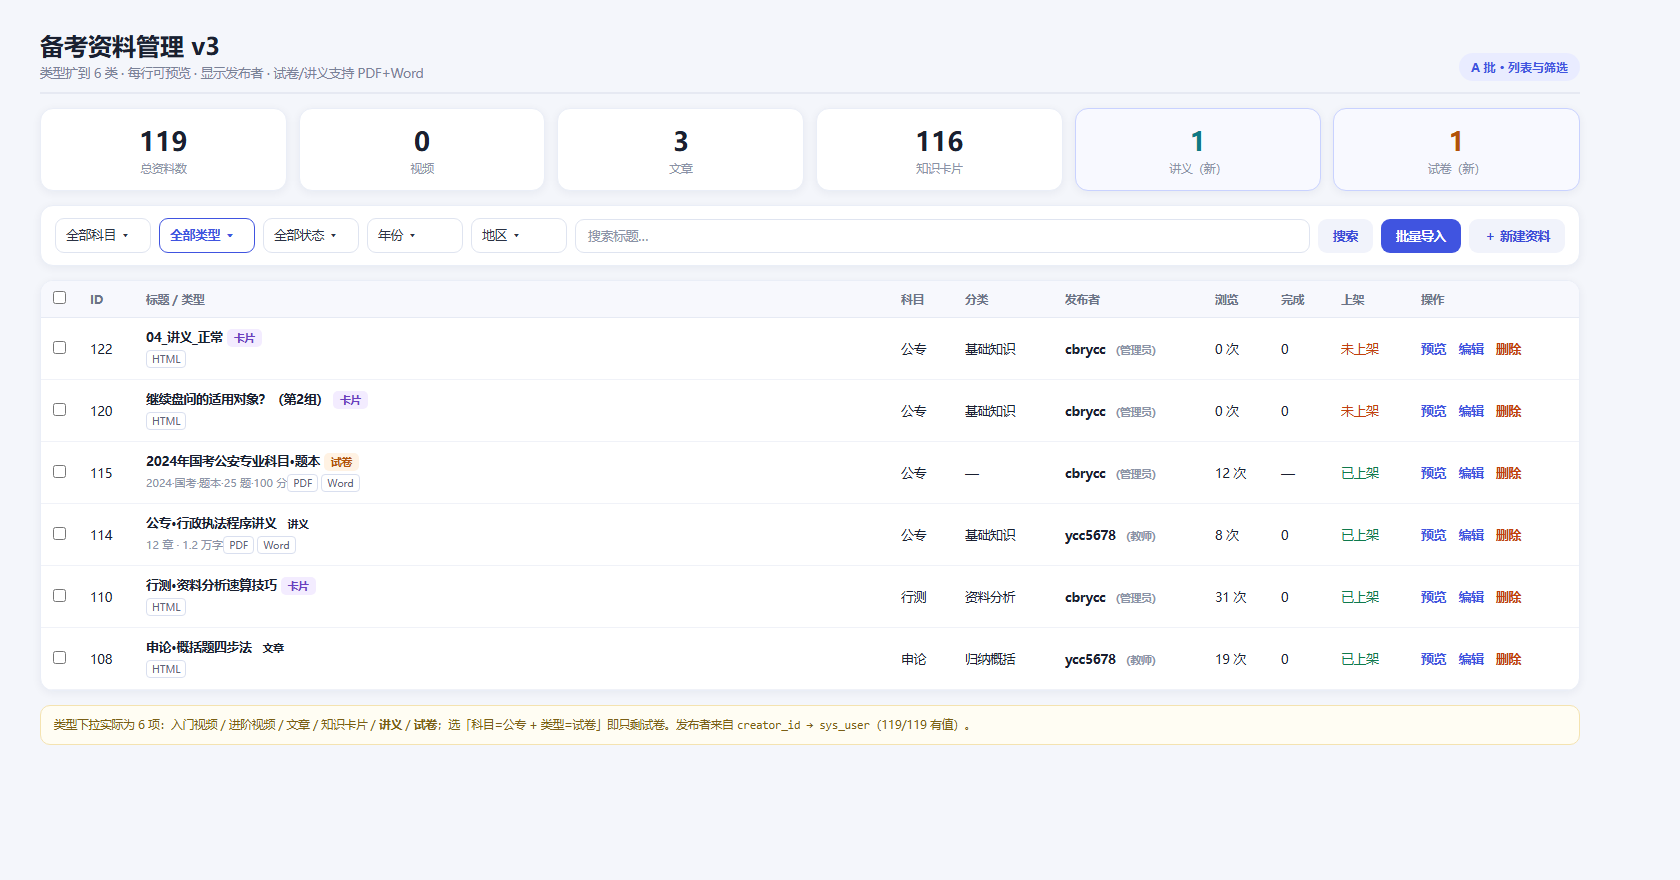
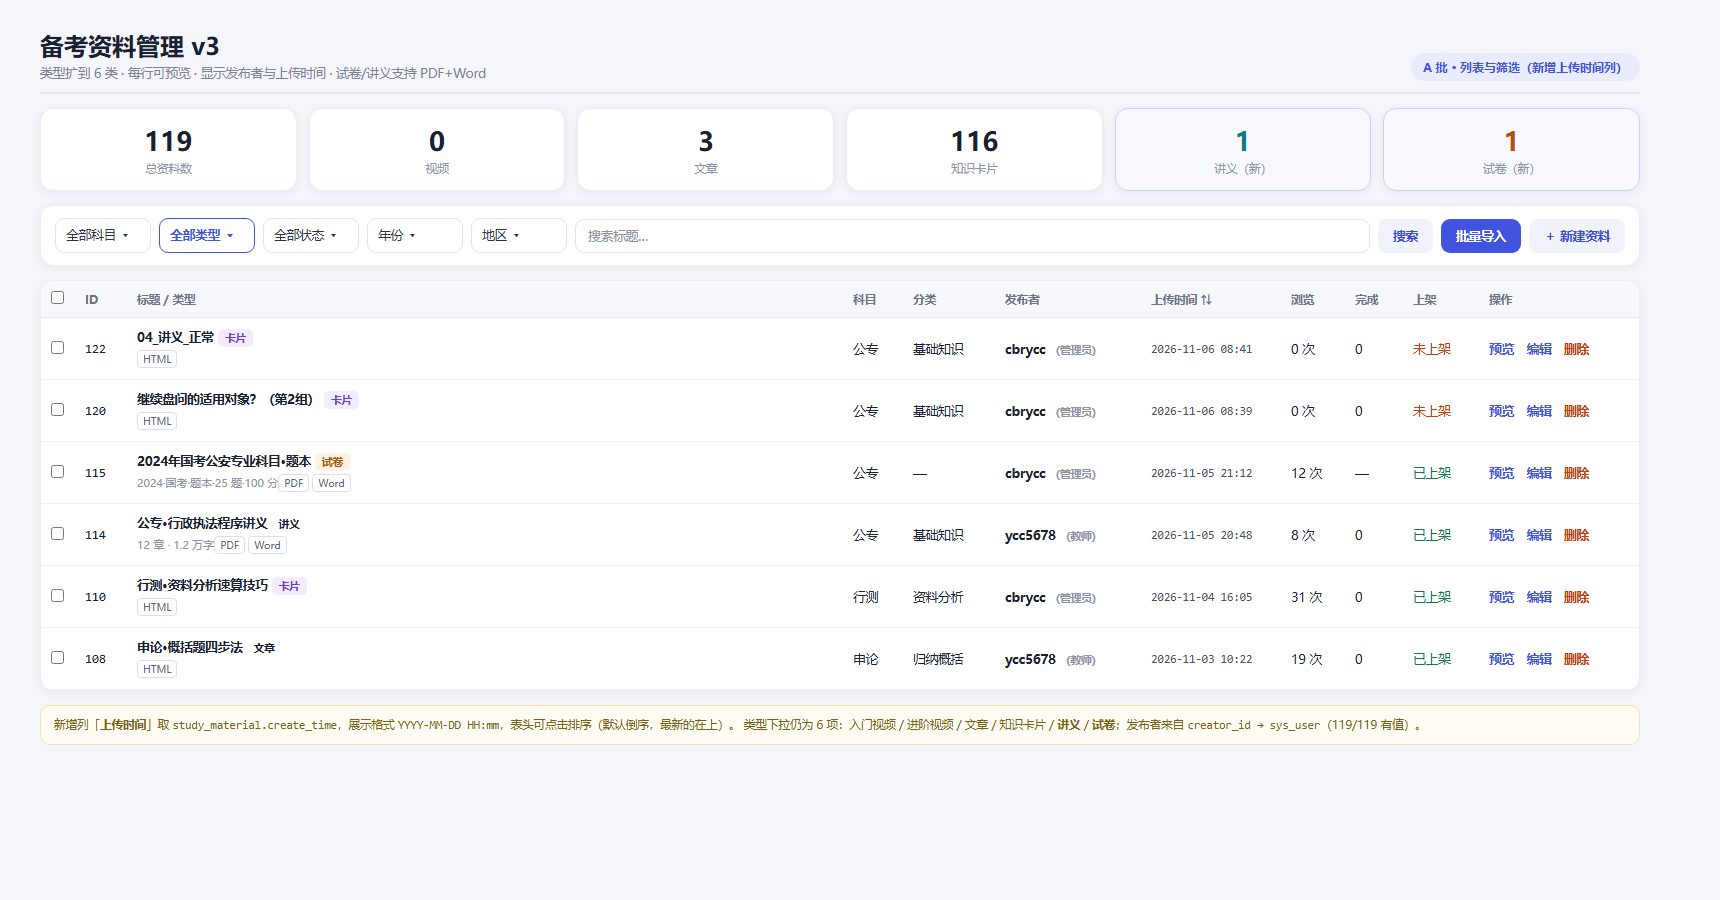
docs(plan): 资料管理列表新增「上传时间」列（create_time，可排序），重出效果图

diff --git a/docs/plans/assets/资料管理v3/_src/01_列表_预览与发布者.html b/docs/plans/assets/资料管理v3/_src/01_列表_预览与发布者.html
@@ -12,25 +12,23 @@ body{font-family:"Microsoft YaHei","Segoe UI",system-ui,sans-serif;background:#f
 .st.on{border-color:#c9d2ff;background:#f8f9ff}
 .bar{display:flex;gap:8px;align-items:center;padding:12px 14px}
 .sel{border:1px solid #dfe4f0;border-radius:9px;padding:8px 10px;font-size:12.5px;background:#fff;min-width:96px;color:#2b3244}
-.sel strong{font-weight:600}
 .inp{flex:1;border:1px solid #dfe4f0;border-radius:9px;padding:8px 12px;font-size:12.5px;color:#8b93a7}
 .btn{background:#4054e0;color:#fff;border-radius:9px;padding:9px 15px;font-size:12.5px;font-weight:700}
 .btn.ghost{background:#f1f3fb;color:#3a4bd8}
 .tbl{width:100%;border-collapse:collapse;font-size:12.5px}
-.tbl th{text-align:left;background:#f7f8fd;color:#6b7387;font-size:11.5px;padding:10px 12px;border-bottom:1px solid #e6eaf4;font-weight:600}
-.tbl td{padding:11px 12px;border-bottom:1px solid #f0f2f8;vertical-align:middle}
+.tbl th{text-align:left;background:#f7f8fd;color:#6b7387;font-size:11.5px;padding:10px 10px;border-bottom:1px solid #e6eaf4;font-weight:600;white-space:nowrap}
+.tbl td{padding:11px 10px;border-bottom:1px solid #f0f2f8;vertical-align:middle}
 .tag{display:inline-block;font-size:10.5px;font-weight:700;padding:2px 7px;border-radius:5px;margin-left:4px}
 .t-card{background:#f3ecff;color:#6b3fbf}.t-art{background:#e8efff;color:#2f49c4}
 .t-lec{background:#e6f7f9;color:#0f7a86}.t-paper{background:#fff2e3;color:#b35309}
-.t-vid{background:#f1f2f6;color:#6b7387}
 .pub{font-weight:600}.role{font-size:10.5px;color:#8b93a7;margin-left:4px}
-.act{color:#4054e0;font-weight:600;cursor:default}
-.act.g{color:#c2410c}
+.act{color:#4054e0;font-weight:600}.act.g{color:#c2410c}
 .fmt{display:inline-block;font-size:10px;border:1px solid #d9dfef;border-radius:4px;padding:1px 5px;color:#5b6478;margin-right:3px}
+.time{font-family:Consolas,monospace;font-size:11.5px;color:#4a5266;white-space:nowrap}
 .note{font-size:11.5px;color:#7a5f16;background:#fffdf3;border:1px solid #f4e3b0;border-radius:10px;padding:10px 13px;line-height:1.6}
 </style></head><body>
-<div class="canvas" style="width:1620px;min-height:900px">
-<div class="hd"><div><h1>备考资料管理 v3</h1><div class="sub">类型扩到 6 类 · 每行可预览 · 显示发布者 · 试卷/讲义支持 PDF+Word</div></div><div class="badge">A 批 · 列表与筛选</div></div>
+<div class="canvas" style="width:1680px;min-height:880px">
+<div class="hd"><div><h1>备考资料管理 v3</h1><div class="sub">类型扩到 6 类 · 每行可预览 · 显示发布者与上传时间 · 试卷/讲义支持 PDF+Word</div></div><div class="badge">A 批 · 列表与筛选（新增上传时间列）</div></div>
 <div class="stats">
   <div class="st card"><div class="v">119</div><div class="l">总资料数</div></div>
   <div class="st card"><div class="v">0</div><div class="l">视频</div></div>
@@ -48,31 +46,36 @@ body{font-family:"Microsoft YaHei","Segoe UI",system-ui,sans-serif;background:#f
   <div class="btn ghost">搜索</div><div class="btn">批量导入</div><div class="btn ghost">＋ 新建资料</div>
 </div>
 <div class="card" style="padding:0;overflow:hidden">
-<table class="tbl"><thead><tr><th style="width:36px"><input type="checkbox"></th><th style="width:56px">ID</th><th>标题 / 类型</th>
-<th style="width:64px">科目</th><th style="width:100px">分类</th><th style="width:150px">发布者</th><th style="width:66px">浏览</th><th style="width:60px">完成</th><th style="width:80px">上架</th><th style="width:170px">操作</th></tr></thead>
-<tbody><tr><td><input type="checkbox"></td><td class="mono">122</td>
+<table class="tbl"><thead><tr>
+<th style="width:34px"><input type="checkbox"></th><th style="width:52px">ID</th><th>标题 / 类型</th>
+<th style="width:60px">科目</th><th style="width:92px">分类</th><th style="width:146px">发布者</th>
+<th style="width:140px">上传时间 ⇅</th><th style="width:64px">浏览</th><th style="width:58px">完成</th>
+<th style="width:76px">上架</th><th style="width:160px">操作</th></tr></thead>
+<tbody><tr><td><input type="checkbox"></td><td style="font-family:Consolas">122</td>
 <td><b>04_讲义_正常</b><span class="tag t-card">卡片</span><div style="font-size:11px;color:#8b93a7;margin-top:3px"><span class="fmt">HTML</span></div></td>
-<td>公专</td><td>基础知识</td><td class="pub">cbrycc<span class="role">（管理员）</span></td><td>0 次</td><td>0</td>
-<td><span style="color:#c2410c">未上架</span></td>
-<td><span class="act">预览</span>　<span class="act">编辑</span>　<span class="act g">删除</span></td></tr><tr><td><input type="checkbox"></td><td class="mono">120</td>
+<td>公专</td><td>基础知识</td><td class="pub">cbrycc<span class="role">（管理员）</span></td>
+<td class="time">2026-11-06 08:41</td><td>0 次</td><td>0</td><td><span style="color:#c2410c">未上架</span></td>
+<td><span class="act">预览</span>　<span class="act">编辑</span>　<span class="act g">删除</span></td></tr><tr><td><input type="checkbox"></td><td style="font-family:Consolas">120</td>
 <td><b>继续盘问的适用对象？（第2组）</b><span class="tag t-card">卡片</span><div style="font-size:11px;color:#8b93a7;margin-top:3px"><span class="fmt">HTML</span></div></td>
-<td>公专</td><td>基础知识</td><td class="pub">cbrycc<span class="role">（管理员）</span></td><td>0 次</td><td>0</td>
-<td><span style="color:#c2410c">未上架</span></td>
-<td><span class="act">预览</span>　<span class="act">编辑</span>　<span class="act g">删除</span></td></tr><tr><td><input type="checkbox"></td><td class="mono">115</td>
+<td>公专</td><td>基础知识</td><td class="pub">cbrycc<span class="role">（管理员）</span></td>
+<td class="time">2026-11-06 08:39</td><td>0 次</td><td>0</td><td><span style="color:#c2410c">未上架</span></td>
+<td><span class="act">预览</span>　<span class="act">编辑</span>　<span class="act g">删除</span></td></tr><tr><td><input type="checkbox"></td><td style="font-family:Consolas">115</td>
 <td><b>2024年国考公安专业科目·题本</b><span class="tag t-paper">试卷</span><div style="font-size:11px;color:#8b93a7;margin-top:3px">2024·国考·题本·25 题·100 分<span class="fmt">PDF</span><span class="fmt">Word</span></div></td>
-<td>公专</td><td>—</td><td class="pub">cbrycc<span class="role">（管理员）</span></td><td>12 次</td><td>—</td>
-<td><span style="color:#0f7a4d">已上架</span></td>
-<td><span class="act">预览</span>　<span class="act">编辑</span>　<span class="act g">删除</span></td></tr><tr><td><input type="checkbox"></td><td class="mono">114</td>
+<td>公专</td><td>—</td><td class="pub">cbrycc<span class="role">（管理员）</span></td>
+<td class="time">2026-11-05 21:12</td><td>12 次</td><td>—</td><td><span style="color:#0f7a4d">已上架</span></td>
+<td><span class="act">预览</span>　<span class="act">编辑</span>　<span class="act g">删除</span></td></tr><tr><td><input type="checkbox"></td><td style="font-family:Consolas">114</td>
 <td><b>公专·行政执法程序讲义</b><span class="tag t-lecture">讲义</span><div style="font-size:11px;color:#8b93a7;margin-top:3px">12 章 · 1.2 万字<span class="fmt">PDF</span><span class="fmt">Word</span></div></td>
-<td>公专</td><td>基础知识</td><td class="pub">ycc5678<span class="role">（教师）</span></td><td>8 次</td><td>0</td>
-<td><span style="color:#0f7a4d">已上架</span></td>
-<td><span class="act">预览</span>　<span class="act">编辑</span>　<span class="act g">删除</span></td></tr><tr><td><input type="checkbox"></td><td class="mono">110</td>
+<td>公专</td><td>基础知识</td><td class="pub">ycc5678<span class="role">（教师）</span></td>
+<td class="time">2026-11-05 20:48</td><td>8 次</td><td>0</td><td><span style="color:#0f7a4d">已上架</span></td>
+<td><span class="act">预览</span>　<span class="act">编辑</span>　<span class="act g">删除</span></td></tr><tr><td><input type="checkbox"></td><td style="font-family:Consolas">110</td>
 <td><b>行测·资料分析速算技巧</b><span class="tag t-card">卡片</span><div style="font-size:11px;color:#8b93a7;margin-top:3px"><span class="fmt">HTML</span></div></td>
-<td>行测</td><td>资料分析</td><td class="pub">cbrycc<span class="role">（管理员）</span></td><td>31 次</td><td>0</td>
-<td><span style="color:#0f7a4d">已上架</span></td>
-<td><span class="act">预览</span>　<span class="act">编辑</span>　<span class="act g">删除</span></td></tr><tr><td><input type="checkbox"></td><td class="mono">108</td>
+<td>行测</td><td>资料分析</td><td class="pub">cbrycc<span class="role">（管理员）</span></td>
+<td class="time">2026-11-04 16:05</td><td>31 次</td><td>0</td><td><span style="color:#0f7a4d">已上架</span></td>
+<td><span class="act">预览</span>　<span class="act">编辑</span>　<span class="act g">删除</span></td></tr><tr><td><input type="checkbox"></td><td style="font-family:Consolas">108</td>
 <td><b>申论·概括题四步法</b><span class="tag t-article">文章</span><div style="font-size:11px;color:#8b93a7;margin-top:3px"><span class="fmt">HTML</span></div></td>
-<td>申论</td><td>归纳概括</td><td class="pub">ycc5678<span class="role">（教师）</span></td><td>19 次</td><td>0</td>
-<td><span style="color:#0f7a4d">已上架</span></td>
+<td>申论</td><td>归纳概括</td><td class="pub">ycc5678<span class="role">（教师）</span></td>
+<td class="time">2026-11-03 10:22</td><td>19 次</td><td>0</td><td><span style="color:#0f7a4d">已上架</span></td>
 <td><span class="act">预览</span>　<span class="act">编辑</span>　<span class="act g">删除</span></td></tr></tbody></table></div>
-<div class="note">类型下拉实际为 6 项：入门视频 / 进阶视频 / 文章 / 知识卡片 / <b>讲义</b> / <b>试卷</b>；选「科目=公专 + 类型=试卷」即只剩试卷。发布者来自 <span style="font-family:Consolas">creator_id → sys_user</span>（119/119 有值）。</div></div></body></html>
+<div class="note">新增列「<b>上传时间</b>」取 <span style="font-family:Consolas">study_material.create_time</span>，展示格式 <span style="font-family:Consolas">YYYY-MM-DD HH:mm</span>，表头可点击排序（默认倒序，最新的在上）。
+类型下拉仍为 6 项：入门视频 / 进阶视频 / 文章 / 知识卡片 / <b>讲义</b> / <b>试卷</b>；发布者来自 <span style="font-family:Consolas">creator_id → sys_user</span>（119/119 有值）。</div>
+</div></body></html>
